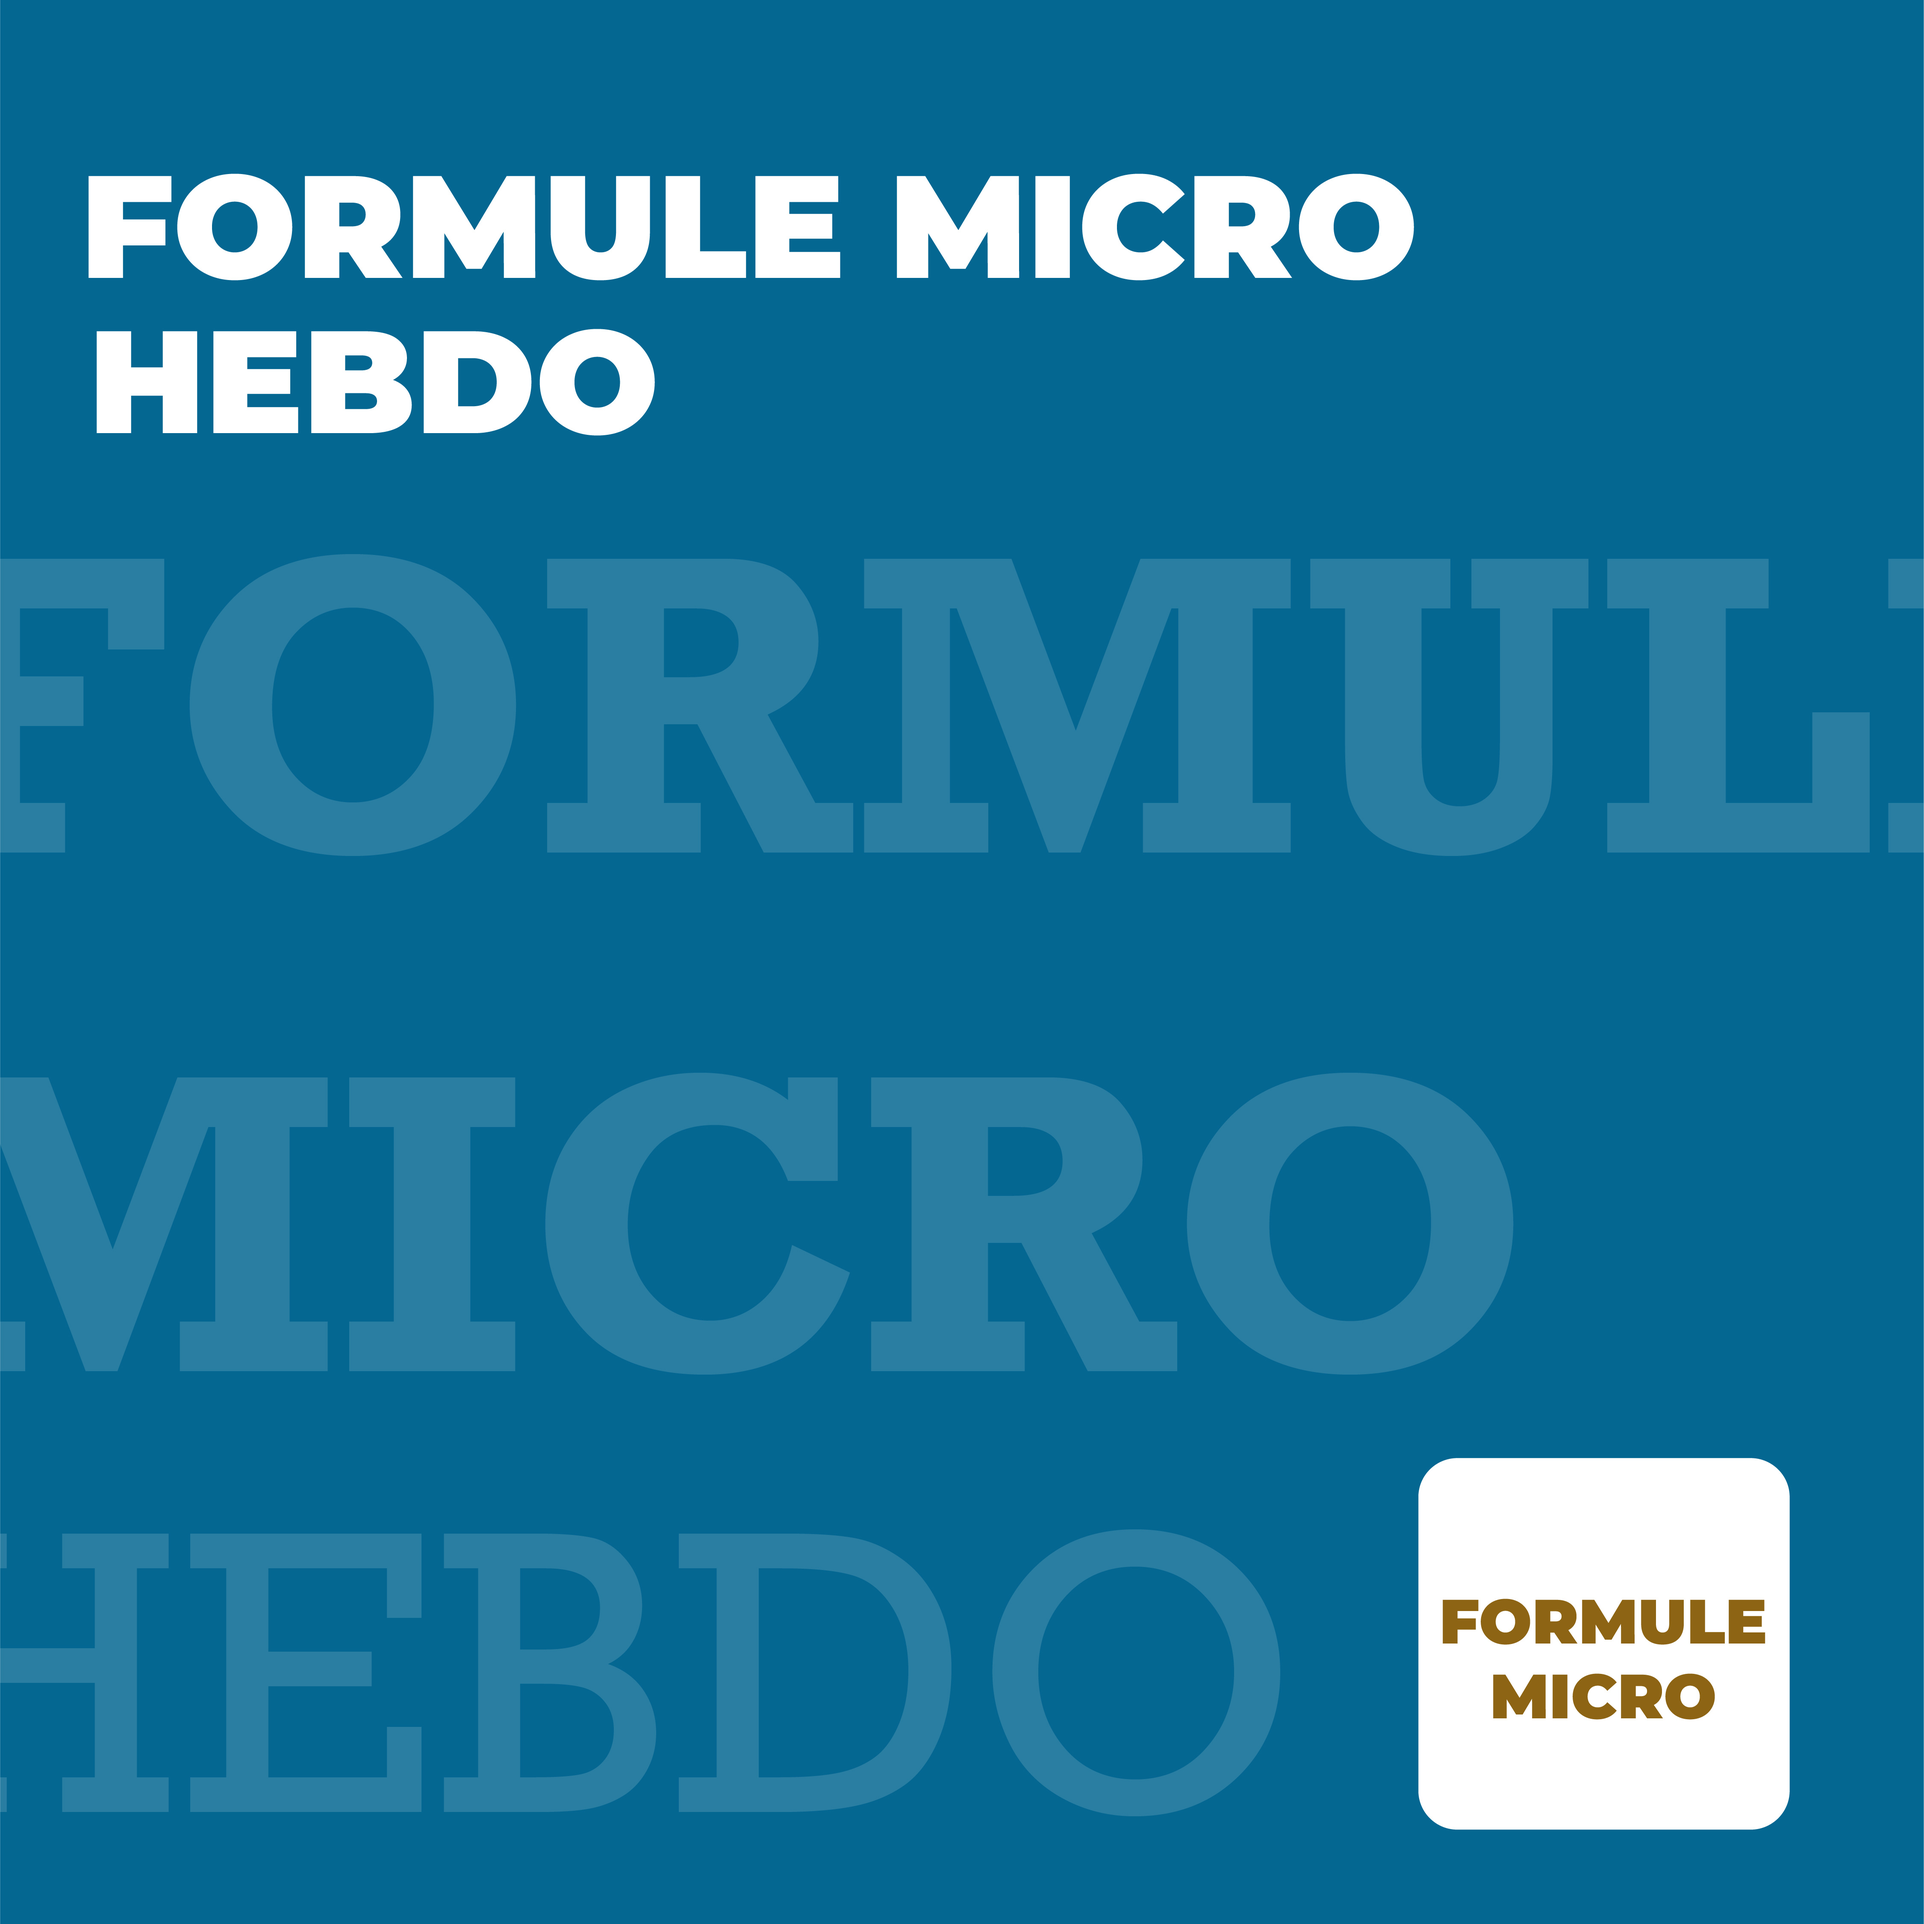
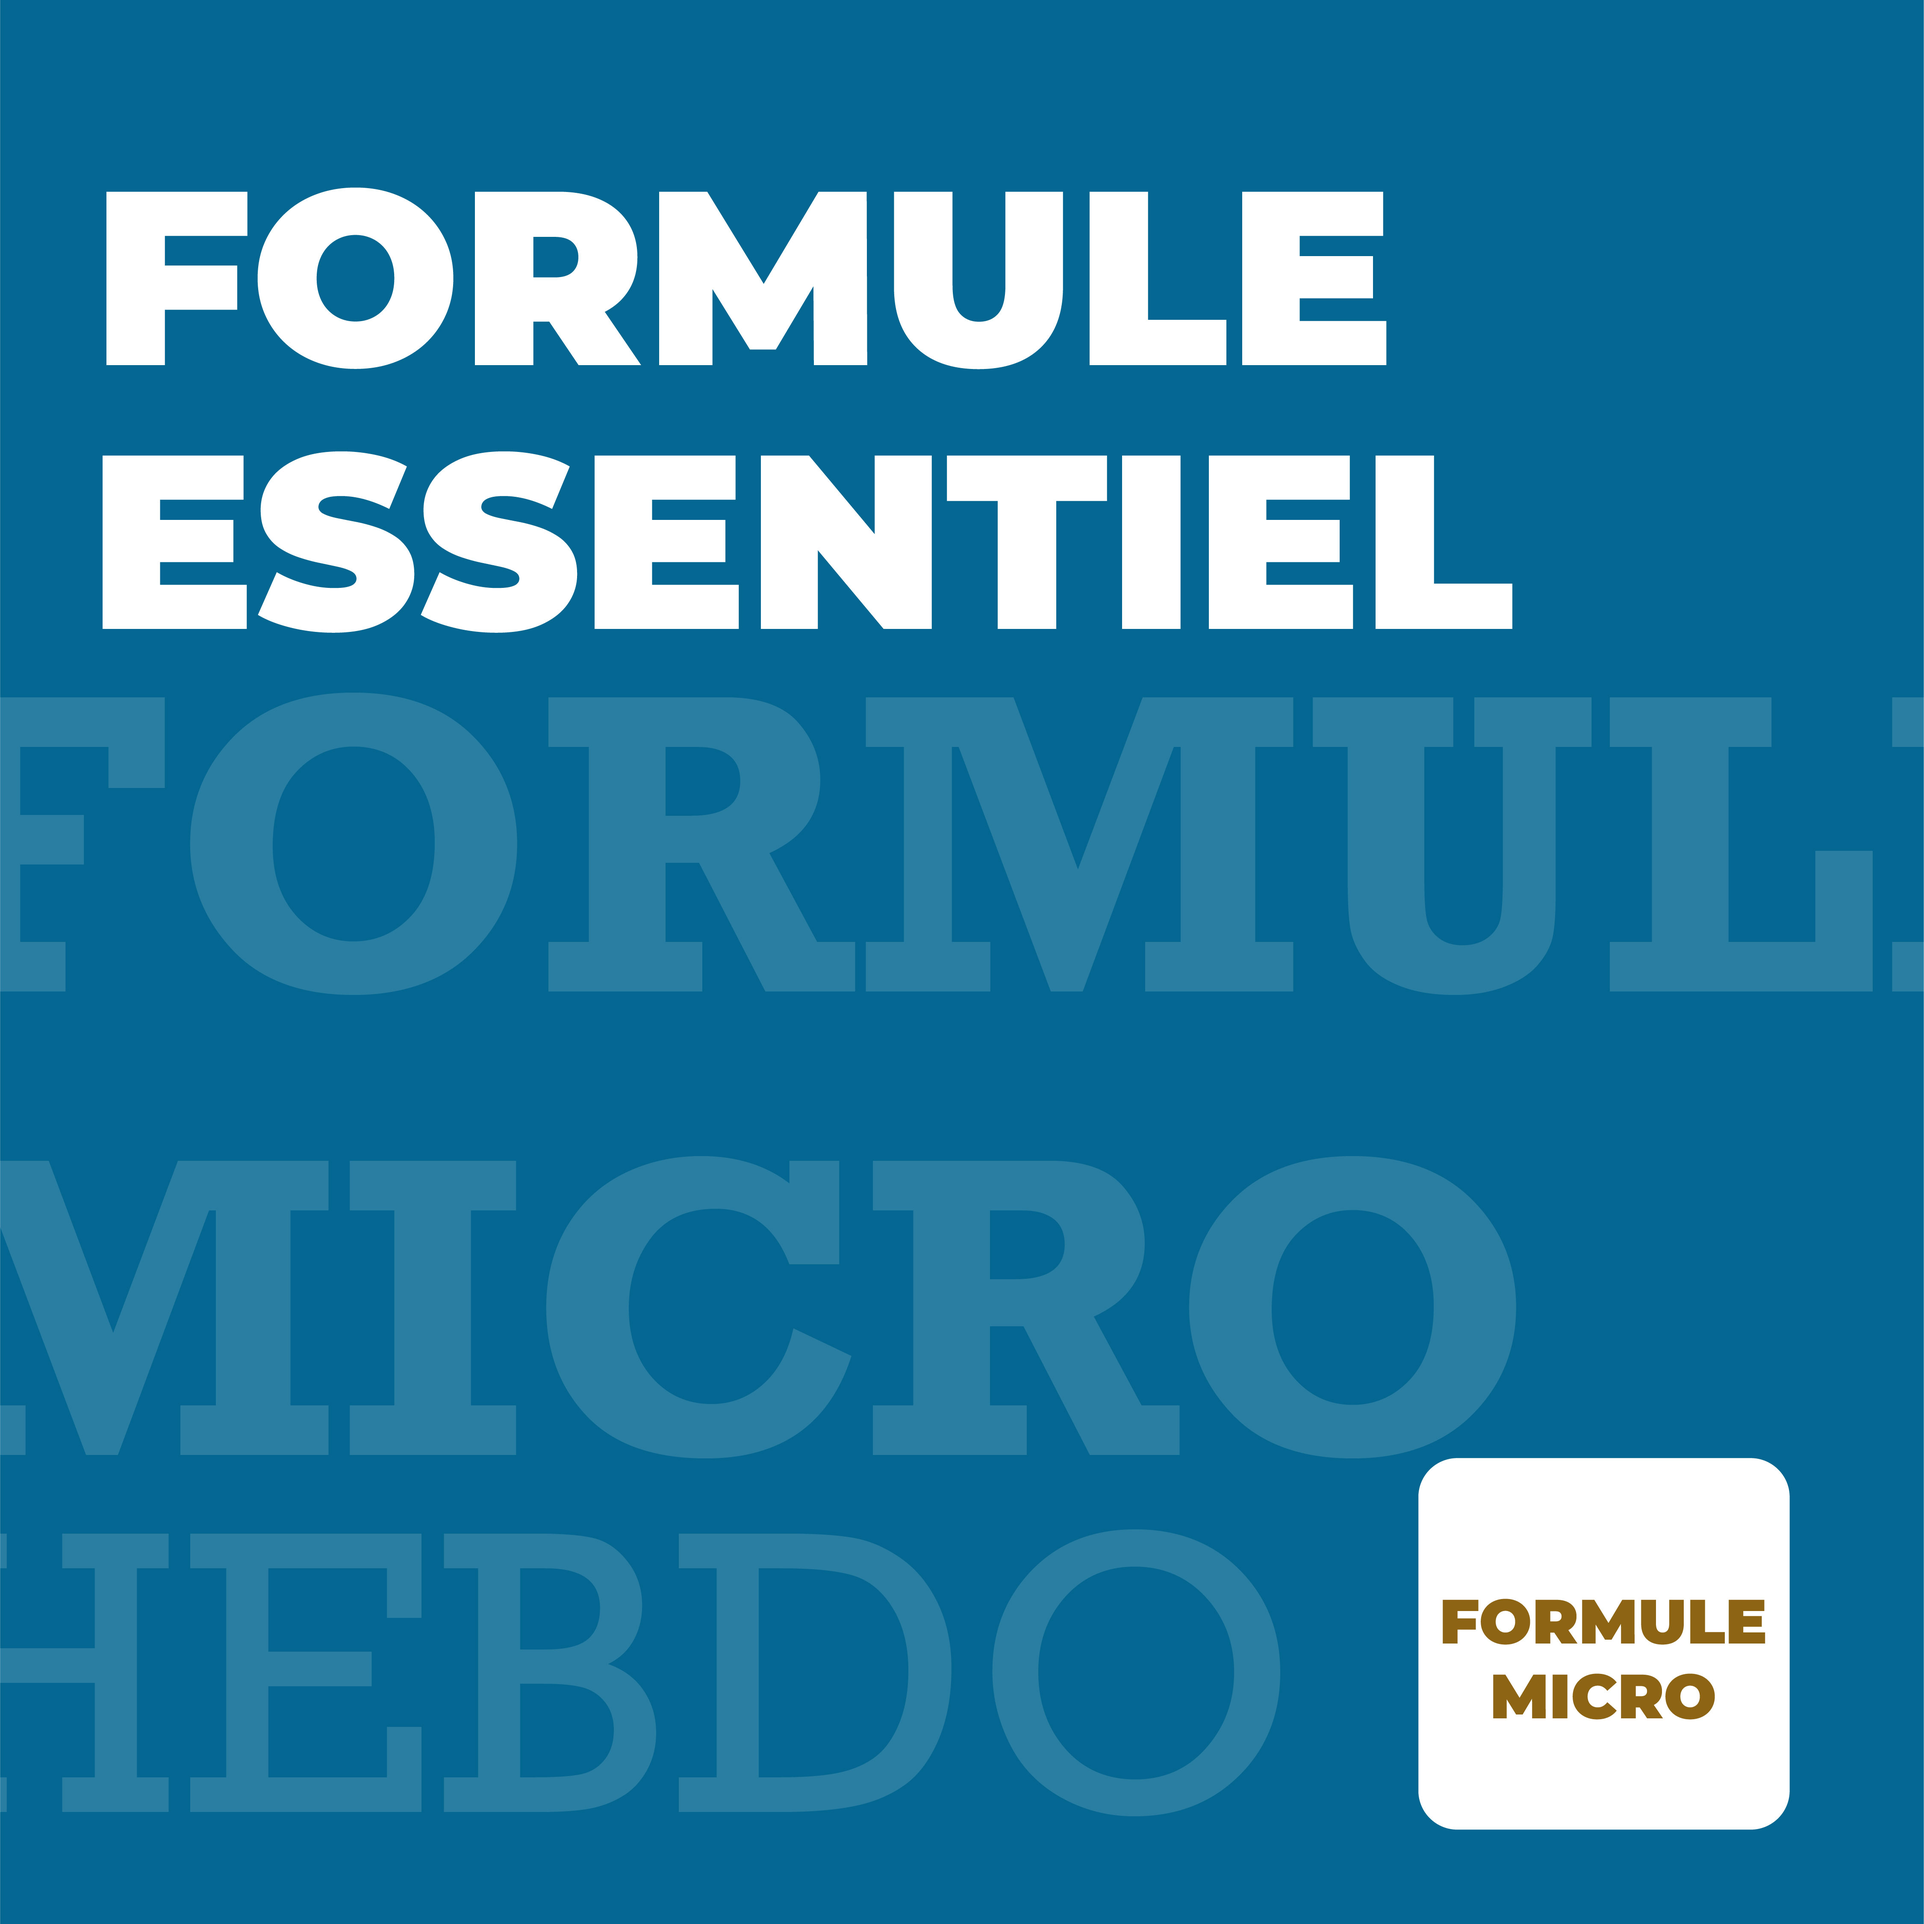
Add files via upload

Changed region(s): [[0.0, 0.0933, 1.0, 0.5289], [0.0, 0.56, 0.8087, 0.7778]]

diff --git a/index.html b/index.html
@@ -48,13 +48,7 @@
 
                <!-- MENU LINKS -->
                <div class="collapse navbar-collapse">
-                    <ul class="nav navbar-nav navbar-nav-first">
-                         <li><a href="#home" class="smoothScroll">Accueil</a></li>
-                         <li><a href="#about" class="smoothScroll">A propos</a></li>
-                         <li><a href="#blog" class="smoothScroll">Gallerie</a></li>
-                         <li><a href="#work" class="smoothScroll">Formules</a></li>
-                         <li><a href="#contact" class="smoothScroll">Contacts</a></li>
-                    </ul>
+                    
 
                     <ul class="nav navbar-nav navbar-right">
                          <li><a href="https://www.facebook.com/sutolci"><i class="fa fa-facebook-square"></i></a></li>
@@ -76,7 +70,7 @@
 
                     <div class="col-md-6 col-sm-12">
                          <div class="home-info">
-                              <h1>Nous vous offrons un espaces dédiés pour vos travaux.</h1>
+                              <h1>Travaillez en Toute Sérénité: Réservez Votre Box Bureau dès Maintenant</h1>
                               <a href="#about" class="btn section-btn smoothScroll">En savoir plus</a>
                               <span>
                                    CONTACTEZ-NOUS (+225) 05 74 43 51 51
@@ -109,7 +103,8 @@
                                    <h2>A propos</h2>
                                    <span class="line-bar">...</span>
                               </div>
-                              <p>Sutol propose une variété d'espaces adaptés à tous vos besoins professionnels. Que ce soit pour des réunions B2B, des conférences, des séminaires ou des réunions d'affaires, nos salles de réunion entièrement équipées vous offriront le cadre idéal pour impressionner vos clients et collaborateurs.</p>
+                              <p>Offrez à votre entreprise l'espace qu'elle mérite avec nos BOX Bureau entièrement équipés. Que vous ayez besoin d'un lieu de réunion, de formation ou simplement d'un bureau personnel, nous avons la solution idéale pour vous.</p>
+                              <br>
                               <a href="#" class="btn section-btn smoothScroll" data-toggle="modal" data-target="#modal-form">Réserver</a>
                          </div>
                     </div>
@@ -117,18 +112,11 @@
                     <div class="col-md-6 col-sm-6">
                          <div class="about-info skill-thumb">
 
-                              <h4><strong>Nous mettons à votre disposition</strong></h4>
+                              <h4><strong>Pour toutes personnes à la recherche :</strong></h4>
                                         <div>
                                              <p>
-                                                  - Box-bureau <br>
-                                                  - casier de rangement pour les documents <br>
-                                                  - salle climatisée <br>
-                                                  - salle de réunion <br>
-                                                  - wifi à très haut débit <br>
-                                                  - possibilité d'imprimer 5 feuilles par jour <br>
-                                                  - télévision pour les instants de pause <br>
-                                                  - mini cafetariat <br>
-                                                  - des professionnels pour vos consultations en tout domaine
+                                                  Dans nos espaces, l'excellence se manifeste dans chaque aspect de votre expérience. De nos bureaux privés à nos salles de réunion et de conférence, chaque espace est conçu pour inspirer confiance, favoriser la concentration et promouvoir le succès. Avec un design soigné et des aménagements propices à la concentration, chaque instant passé dans nos locaux est une occasion de donner le meilleur de vous-même.
+                                                   <h5><strong>NB : 1 semaine d'essaie gratuit !</strong></h5>
                                                   <br><br>
                                         </div>
 
@@ -211,57 +199,43 @@
                          </div>
                     </div>
 
-                    <div class="col-md-3 col-sm-6">
+                    <div class="col-md-4 col-sm-6">
                          <!-- WORK THUMB -->
                          <div class="work-thumb">
                               <a href="images/Formule_Plan de travail 1.jpg" class="image-popup">
                                    <img src="images/Form-02.jpg" class="img-responsive" alt="Work">
 
                                    <div class="work-info">
-                                        <h3>Formule Micro</h3>
+                                        <h3>FORMULE ESSENTIEL</h3>
                                         <small>Hebdo</small>
                                    </div>
                               </a>
                          </div>
                     </div>
 
-                    <div class="col-md-3 col-sm-6">
+                    <div class="col-md-4 col-sm-6">
                          <!-- WORK THUMB -->
                          <div class="work-thumb">
                               <a href="images/Formule-03.jpg" class="image-popup">
                                    <img src="images/Form-04.jpg" class="img-responsive" alt="Work">
 
                                    <div class="work-info">
-                                        <h3>Formule Jaguar</h3>
+                                        <h3>FORMULE EXTRA</h3>
                                         <small>Homme d'affaires</small>
                                    </div>
                               </a>
                          </div>
                     </div>
 
-                    <div class="col-md-3 col-sm-6">
+                    <div class="col-md-4 col-sm-6">
                          <!-- WORK THUMB -->
                          <div class="work-thumb">
                               <a href="images/Formule-05.jpg" class="image-popup">
                                    <img src="images/form-06.jpg" class="img-responsive" alt="Work">
 
                                    <div class="work-info">
-                                        <h3>Formule Teens</h3>
+                                        <h3>FORMULE PREMIUM</h3>
                                         <small>Formation</small>
-                                   </div>
-                              </a>
-                         </div>
-                    </div>
-
-                    <div class="col-md-3 col-sm-6">
-                         <!-- WORK THUMB -->
-                         <div class="work-thumb">
-                              <a href="images/Formule-07.jpg" class="image-popup">
-                                   <img src="images/form-08.jpg" class="img-responsive" alt="Work">
-
-                                   <div class="work-info">
-                                        <h3>Formule Partner</h3>
-                                        <small>Partenaire</small>
                                    </div>
                               </a>
                          </div>
@@ -418,7 +392,7 @@
 
                                         <!-- NAV TABS -->
                                         <ul class="nav nav-tabs" role="tablist">
-                                             <li class="active"><a href="#sign_up" aria-controls="sign_up" role="tab" data-toggle="tab">Je réserve mon espace</a></li>
+                                             <li class="active"><a href="#sign_up" aria-controls="sign_up" role="tab" data-toggle="tab">Réserver une visite</a></li>
                                         </ul>
 
                                         <!-- TAB PANES -->
@@ -428,7 +402,7 @@
                                                        <input type="text" class="form-control" name="name" placeholder="Nom" required>
                                                        <input type="telephone" class="form-control" name="telephone" placeholder="Telephone" required>
                                                        <input type="email" class="form-control" name="email" placeholder="Email" required>
-                                                       <input type="password" class="form-control" name="password" placeholder="Formule" required>
+                                                       <input type="date" class="form-control" name="password" placeholder="Date de visite" required>
                                                        <input type="submit" class="form-control" name="submit" value="Envoyer">
                                                   </form>
                                              </div>
